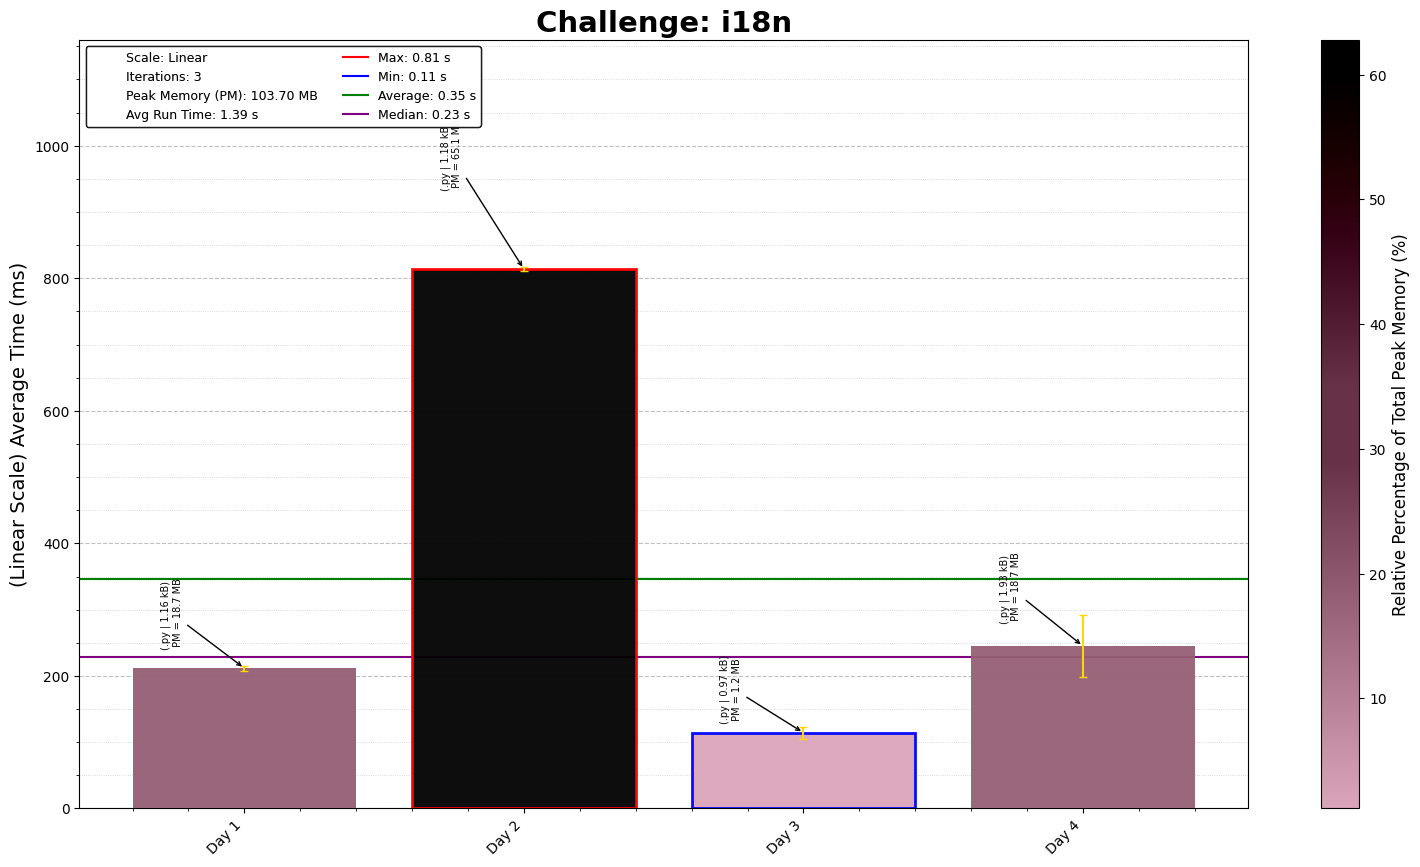
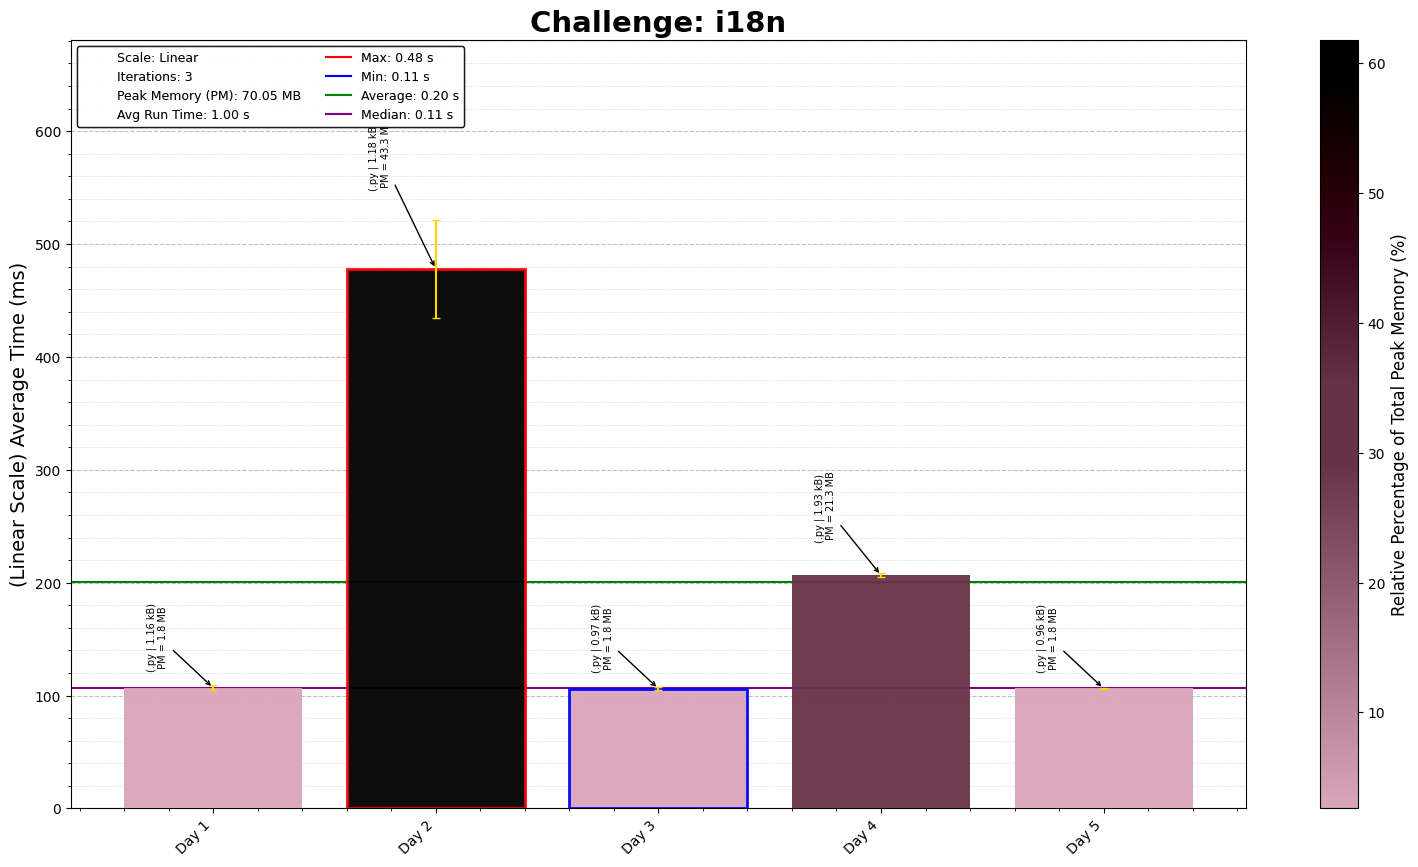
i18n Puzzle day 5

diff --git a/i18n/05/i18nDay05.py b/i18n/05/i18nDay05.py
@@ -1,0 +1,38 @@
+"""i18n Puzzles - Puzzle 5
+Solution Started: Mar 11, 2025
+Puzzle Link: https://i18n-puzzles.com/puzzle/5/
+Solution by: Abbas Moosajee
+Brief: [Don't step in it...]
+"""
+
+#!/usr/bin/env python3
+
+import os
+
+# Load the input data from the specified file path
+D05_file = "Day05_input.txt"
+D05_file_path = os.path.join(os.path.dirname(os.path.abspath(__file__)), D05_file)
+
+# Read and sort input data into a grid
+with open(D05_file_path, encoding="utf-8") as file:
+    input_data = file.read().split('\n')
+
+# Define grid dimensions
+WIDTH, HEIGHT = len(input_data[0]), len(input_data)
+
+# Create a dictionary representing the grid
+grid = {(r, c): cell for r, row in enumerate(input_data) for c, cell in enumerate(row)}
+
+
+# Initialize variables
+shit_count = 0
+row, col = 0, 0
+
+# Traverse the grid
+while row < HEIGHT:
+    row += 1
+    col = (col + 2) % WIDTH
+    if grid.get((row, col)) == "💩":
+        shit_count += 1
+
+print("Stepped in shit:", shit_count)

diff --git a/i18n/README_i18n.md b/i18n/README_i18n.md
@@ -8,5 +8,5 @@ This repository contains coding solutions for the i18n puzzles.
 2. **Puzzle 2 - Detecting gravitational waves**: Simple timezone counter, but did enjoy the shifting part of the timezones.
 3. **Puzzle 3- Unicode Passwords**: Validating passwords to ensure they meet a certain set of criteria.
 4. **Puzzle 4- A trip around the world**: Calculating travel time, fairly simple time math using datetime and zoneinfo
-
+5. **Puzzle 5- Don't step in it...**: Fairly simple but definitely helped by python's handling of emojis, alternative handling in Java or C# would be interesting.
 ---
